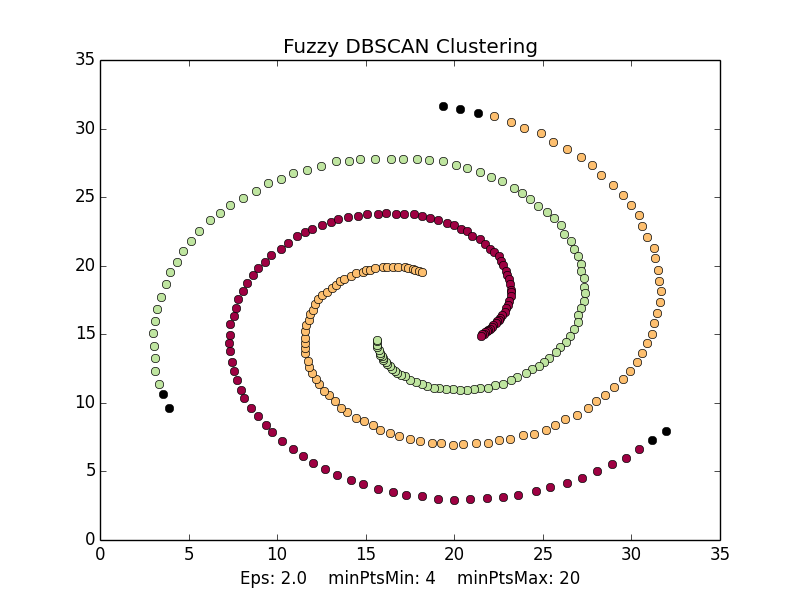
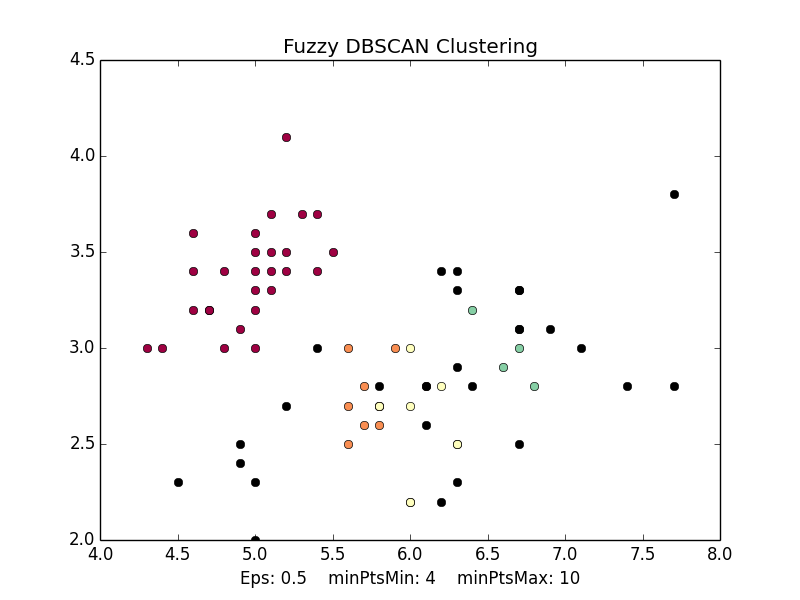
Add some stuff like image saving in tempory folder, upper triangle matrix for the distance computation, ...

diff --git a/src/Main.py b/src/Main.py
@@ -4,12 +4,12 @@ import numpy as np
 
 # Load test data
 data = np.loadtxt(open("../spirals.csv","r"),delimiter=";")
-#data = open("../iris.arff","r")
-#data = Chris.arffFileToArrayOfPoints(data)
+pathToArffFile = "../iris.arff"
+
 # Test parameters for fuzzy dbscan clustering
 minPtsMin = 4
 minPtsMax = 10
-epsilon = 1.5
+epsilon = 0.5
 
 # Function to read data out of arff file
 def arffFileToArrayOfPoints(arffFile):
@@ -33,9 +33,10 @@ def arffFileToArrayOfPoints(arffFile):
     # Splits array into array of array, each array contains the coordinates of the point
     arrayOfPoints = [listOfDataPoints[i:i+dimension] for i in range(0, len(listOfDataPoints), dimension)]
     
+    arrayOfPoints = np.array(arrayOfPoints)
+    
     # Array of array, each array contains the coordinates of the point, like [[5.1, 3.5, 1.4, 0.2], .., [5.0, 3.6, 1.4, 0.2]] 
     return arrayOfPoints
-
 
 # This function executes fuzzy dbscan of ... on a given set of data points.
 # The algorithm is based on Fuzzy Core DBScan Clustering Algorithm by
@@ -47,9 +48,16 @@ def arffFileToArrayOfPoints(arffFile):
 # the epsilon distance and an interval between minPtsMin
 # and minPtsMax that shows if a point has enough points
 # in it's epsilon neighborhood to be a core point.
-# showClustering is a boolean that tells the program
-# to visualize the clustering or not.
-def main(data, eps, minPtsMin, minPtsMax, showClustering = True):
+# saveImage is a boolean that tells the program
+# to save a picture of the clustering or not.
+# arrFile is the full path to an arff file. This file
+# is used as data if the path is not empty.
+def main(data, eps, minPtsMin, minPtsMax, saveImage = True, arffFile = ""):
+    
+    if len(arffFile) > 0:
+        arfff = open(arffFile,"r")
+        data = arffFileToArrayOfPoints(arfff)
+    
     # Compute distances of data points
     distances = FuzzyDBSCAN.computeDistances(data)
     
@@ -57,8 +65,8 @@ def main(data, eps, minPtsMin, minPtsMax, showClustering = True):
     clustering = FuzzyDBSCAN.fuzzyDBSCAN(data, distances, eps, minPtsMin, minPtsMax)
     
     # Show a nice picture if desired
-    if showClustering:
+    if saveImage:
         Plotter.visualizeClustering(data, clustering, eps, minPtsMin, minPtsMax)
 
 # Start program for test
-main(data,epsilon,minPtsMin,minPtsMax)
+main(data, epsilon, minPtsMin, minPtsMax, True, pathToArffFile)

diff --git a/src/Plotter.py b/src/Plotter.py
@@ -5,6 +5,8 @@
 import matplotlib.pyplot as plt
 import numpy as np
 import os
+import tempfile as tf
+
 
 def visualizeClustering(data, clustering, eps, minPoints, maxPoints):
     
@@ -30,12 +32,14 @@ def visualizeClustering(data, clustering, eps, minPoints, maxPoints):
     
     # Saves the image
     imageName = "fuzzyDBSCAN.png"
-    plt.savefig(imageName, dpi=100)
+    tempPath = tf.mkdtemp()
+    plt.savefig(tempPath+os.sep+imageName, dpi=100)
+    print("# Image: "+tempPath + os.sep + imageName)
     
     # Prints fullpath of the file
-    full_path = os.path.realpath(__file__)
-    path, f = os.path.split(full_path)
-    print(path + os.sep + imageName) 
+    #full_path = os.path.realpath(__file__)
+    #path, f = os.path.split(full_path)
+    #print(path + os.sep + imageName) 
     
     # Shows figure in separate popup-window
     #plt.show()

diff --git a/src/FuzzyDBSCAN.py b/src/FuzzyDBSCAN.py
@@ -174,7 +174,7 @@ def computeDistances(data):
         distanceCollector = [[]]
         # Columns
         for j in range(lenArrayOfPoints): 
-            if i == j: 
+            if i >= j: 
                 # Fills lower triangular matrix with 0
                 distanceCollector[0].extend([0])
             else:
@@ -189,7 +189,8 @@ def computeDistances(data):
         
         # Adds row to array of distance matrix        
         distanceMatrix.extend(distanceCollector)
-    #Distance Matrix as NumpyArray    
+    #Distance Matrix as NumpyArray  
     distanceMatrix = np.array(distanceMatrix)
+    #print distanceMatrix  
 
     return distanceMatrix
